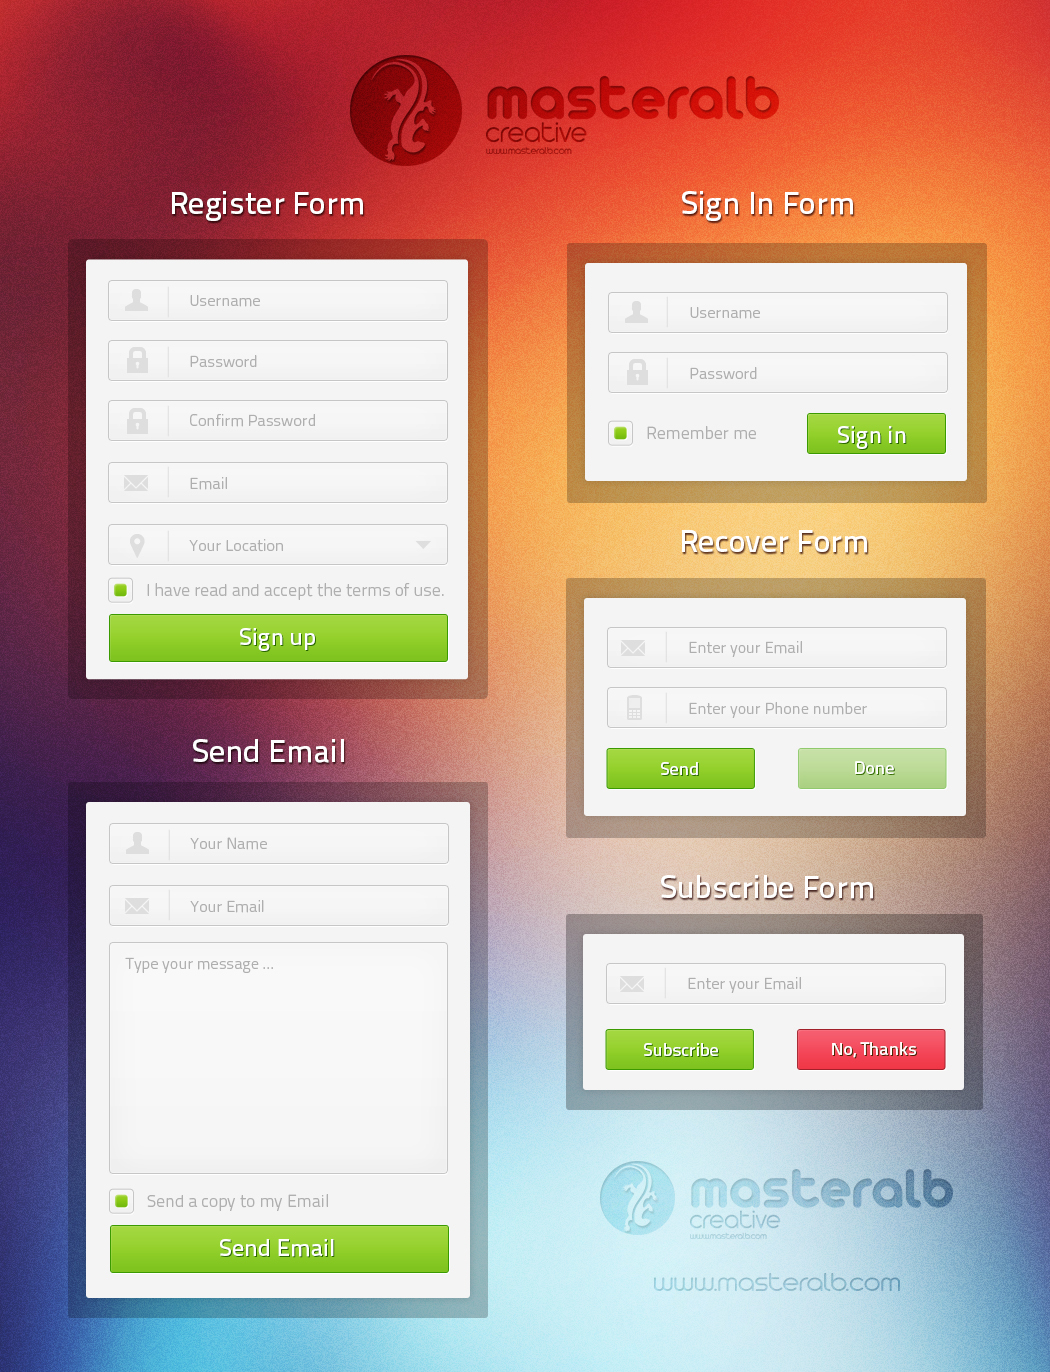
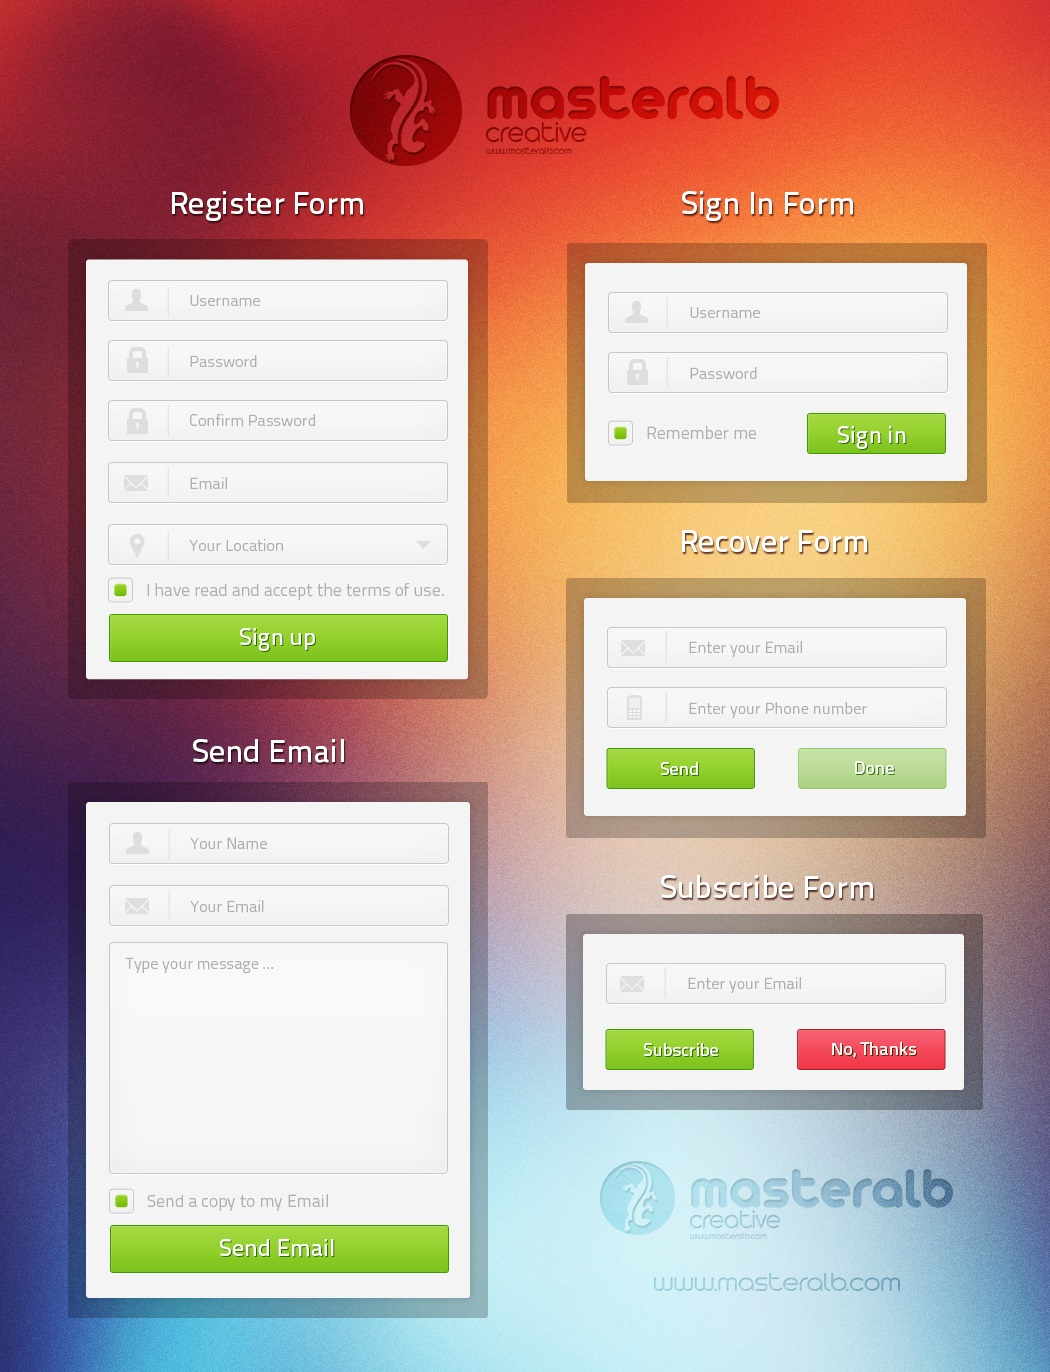
Modify style.css

diff --git a/style/style.css b/style/style.css
@@ -1,16 +1,54 @@
-@import url('https://fonts.googleapis.com/css?family=Open+Sans:400,600,700,800');
+@import url('https://fonts.googleapis.com/css?family=Open+Sans:100,200,400,600,700,800');
 @import url('https://fonts.googleapis.com/css?family=Baloo+Bhai|Nova+Mono');
 
 body {
-	background: url(../img/background.jpg) center/cover;
+	background: url(../img/background.jpg);
+	background-position: top;
+	background-repeat: no-repeat;
 	font-family: "Open Sans", sans-serif;
 }
 
-
+.btn {
+	border-radius: 5px;
+	border: 1px solid #3B9A00;
+	color: #fff;
+	text-shadow: 1px 1px 2px #000;
+}
 .container {
 	width: 100%;
 	max-width: 1200px;
 	margin: 0 auto;
+}
+.input-border {
+	width: 340px;
+	height: 40px;
+	border: 1px solid #ccc;
+	border-radius: 5px;
+	margin: 20px 0;
+	display: flex;
+	align-items: center;
+	color: #ccc;
+}
+.input-border .fa {
+	font-size: 22px;
+	width: 22px;
+	text-align: center;
+	margin: 0 10px 0 15px;
+}
+.input-line {
+	font-size: 30px;
+	color: #ccc;
+	line-height: 40px;
+	margin-bottom: 6px;
+	font-weight: 100;
+	opacity: 0.8;
+}
+.input-content {
+	border: none;
+	color: #ccc;
+	margin-left: 15px;
+	font-size: 16px;
+	opacity: 0.8;
 }
 /* grid*/
 * {
@@ -70,35 +108,46 @@ body {
 	align-items: center;
 	margin-top: 50px;
 }
+.shadow-1-img {
+	box-shadow: -2px -2px 1px rgba(0, 0, 0, 0.3);
+	border-radius: 50%;
+	width: 120px;
+	height: 120px;
+	margin-right: 5px;
+	margin-left: 40px;
+}
 .brand-1-img {
 	width: 120px;
 	height: 120px;
-	object-fit: center;
-	opacity: 0.4;
-	margin-left: 30px;
+	opacity: 0.3;
+	filter: drop-shadow(-1px -2px 1px #000);	
 }
 .brand-1-text {
 	margin-left: 20px;
 	font-family: "Baloo Bhai", sans-serif;
 	line-height: 40px;
-	color: rgba(0, 0, 0, 0.4);
-	text-shadow: -5px -5px 1px #000;
+	
 }
 .brand-1-text-head {
 	font-size: 60px;
 	margin: 0;
 	letter-spacing: 2px;
+	color: rgba(206, 15, 7, 0.6);	
+	text-shadow: -1px -2px 1px rgba(0, 0, 0, 0.5);
 	
 }
 .brand-1-text-p {
 	margin: 0;
 	font-size: 30px;
 	line-height: 25px;
+	color: #A40605;
+	text-shadow: -1px -1px 1px rgba(0, 0, 0, 0.5);
 }
 .adress-1-sm {
 	margin: 0;
 	font-size: 10px;
 	line-height: 10px;
+	color: #960706;
 }
 .col-6 {
 	display: flex;
@@ -115,7 +164,7 @@ body {
 	font-weight: 400;
 	text-align: center;
 	width: 420px; 
-	text-shadow: 2px 2px 2px #000;
+	text-shadow: 1px 2px 2px #000;
 	margin-bottom: 12px;
 }
 .form-head-lg {
@@ -130,20 +179,42 @@ body {
 [class*="board-"] {
 	background-color: #fff;
 	border-radius: 5px;
-	padding: 25px 35px;
+	padding: 5px 20px 25px;
 
+}
+.btn-lg {
+	width: 340px;
+	height: 50px;
+	background: linear-gradient(#A0D53C,#81C520);
+	font-size: 22px;
 }
 .shadow-lg {
 	position: relative;
 	width: 420px;
+	height: 458px;
+	background-color: rgba(0, 0, 0, 0.2);
+	border-radius: 5px;	
+	margin-right: 32.5px;
+}
+	
+.shadow-xl {
+	position: relative;
+	width: 420px;
 	height: 535px;
 	background-color: rgba(0, 0, 0, 0.2);
-	border-radius: 5px;
-	
+	border-radius: 5px;	
 	margin-right: 32.5px;
 }
 
+
 .board-lg {
+	width: 380px;
+	height: 418px;
+	position: absolute;
+	bottom: 20px;
+	left: 20px;
+}
+.board-xl {
 	width: 380px;
 	height: 495px;
 	position: absolute;
@@ -158,6 +229,23 @@ body {
 	border-radius: 5px;
 	
 	margin-left: 32.5px;
+}
+[class*="btn-sm"] {
+	width: 140px;
+	height: 40px;
+	font-size: 18px;
+	background: linear-gradient(#A0D53C,#81C520);
+}
+.btn-sm-1 {
+	font-size: 22px;
+}
+.btn-sm-light {
+	background: linear-gradient(#C6DFA5,#ACD184);
+	border-color: #8FCA6C;
+}
+.btn-sm-red {
+	border-color: #A2202A;
+	background: linear-gradient(#F45B6D,#F13848);
 }
 .board-md {
 	width: 380px;
@@ -189,37 +277,53 @@ body {
 	justify-content: flex-end;
 	margin-top: 30px;
 	width: 420px;
-	margin: 30px 35px 0 60px;
+	margin: 30px 35px 0;
 }
 .brand-contain {
 	display: flex;
 	align-items: flex-end;
 }
+.shadow-2-img {
+	box-shadow: -2px -2px 1px rgba(0, 0, 0, 0.4);
+	border-radius: 50%;
+	width: 80px;
+	height: 80px;
+	margin-right: 15px;
+}
 .brand-2-img {
 	width: 80px;
 	height: 80px;
-	object-fit: center;
-	opacity: 0.2;
+	opacity: 0.3;
+	filter: drop-shadow(-1px -2px 1px #000);
 }
 .brand-2-text {
-	margin-left: 30px;
 	font-family: "Baloo Bhai", sans-serif;
 	line-height: 40px;
-	color: rgba(0, 0, 0, 0.2);
 }
 .brand-2-text-head {
 	font-size: 50px;
 	margin: 0;
 	letter-spacing: 2px;
-	
+	color: rgba(172, 214, 230, 0.6);
+	text-shadow: -1px -2px 1px rgba(0, 0, 0, 0.4);
+
 }
 .brand-2-text-p {
 	margin: 0;
 	font-size: 25px;
 	line-height: 15px;
+	color: #9ECFDE;
+	text-shadow: -1px -1px 1px rgba(0, 0, 0, 0.5);
 }
 .adress-2-sm {
 	margin: 0;
 	font-size: 10px;
 	line-height: 10px;
+	color: #8DBACD;
+}
+.adress-lg {
+	color: #8DBACD;
+	font-size: 30px;
+	opacity: 0.7;
+	font-family: "Baloo Bhai", sans-serif;
 }
